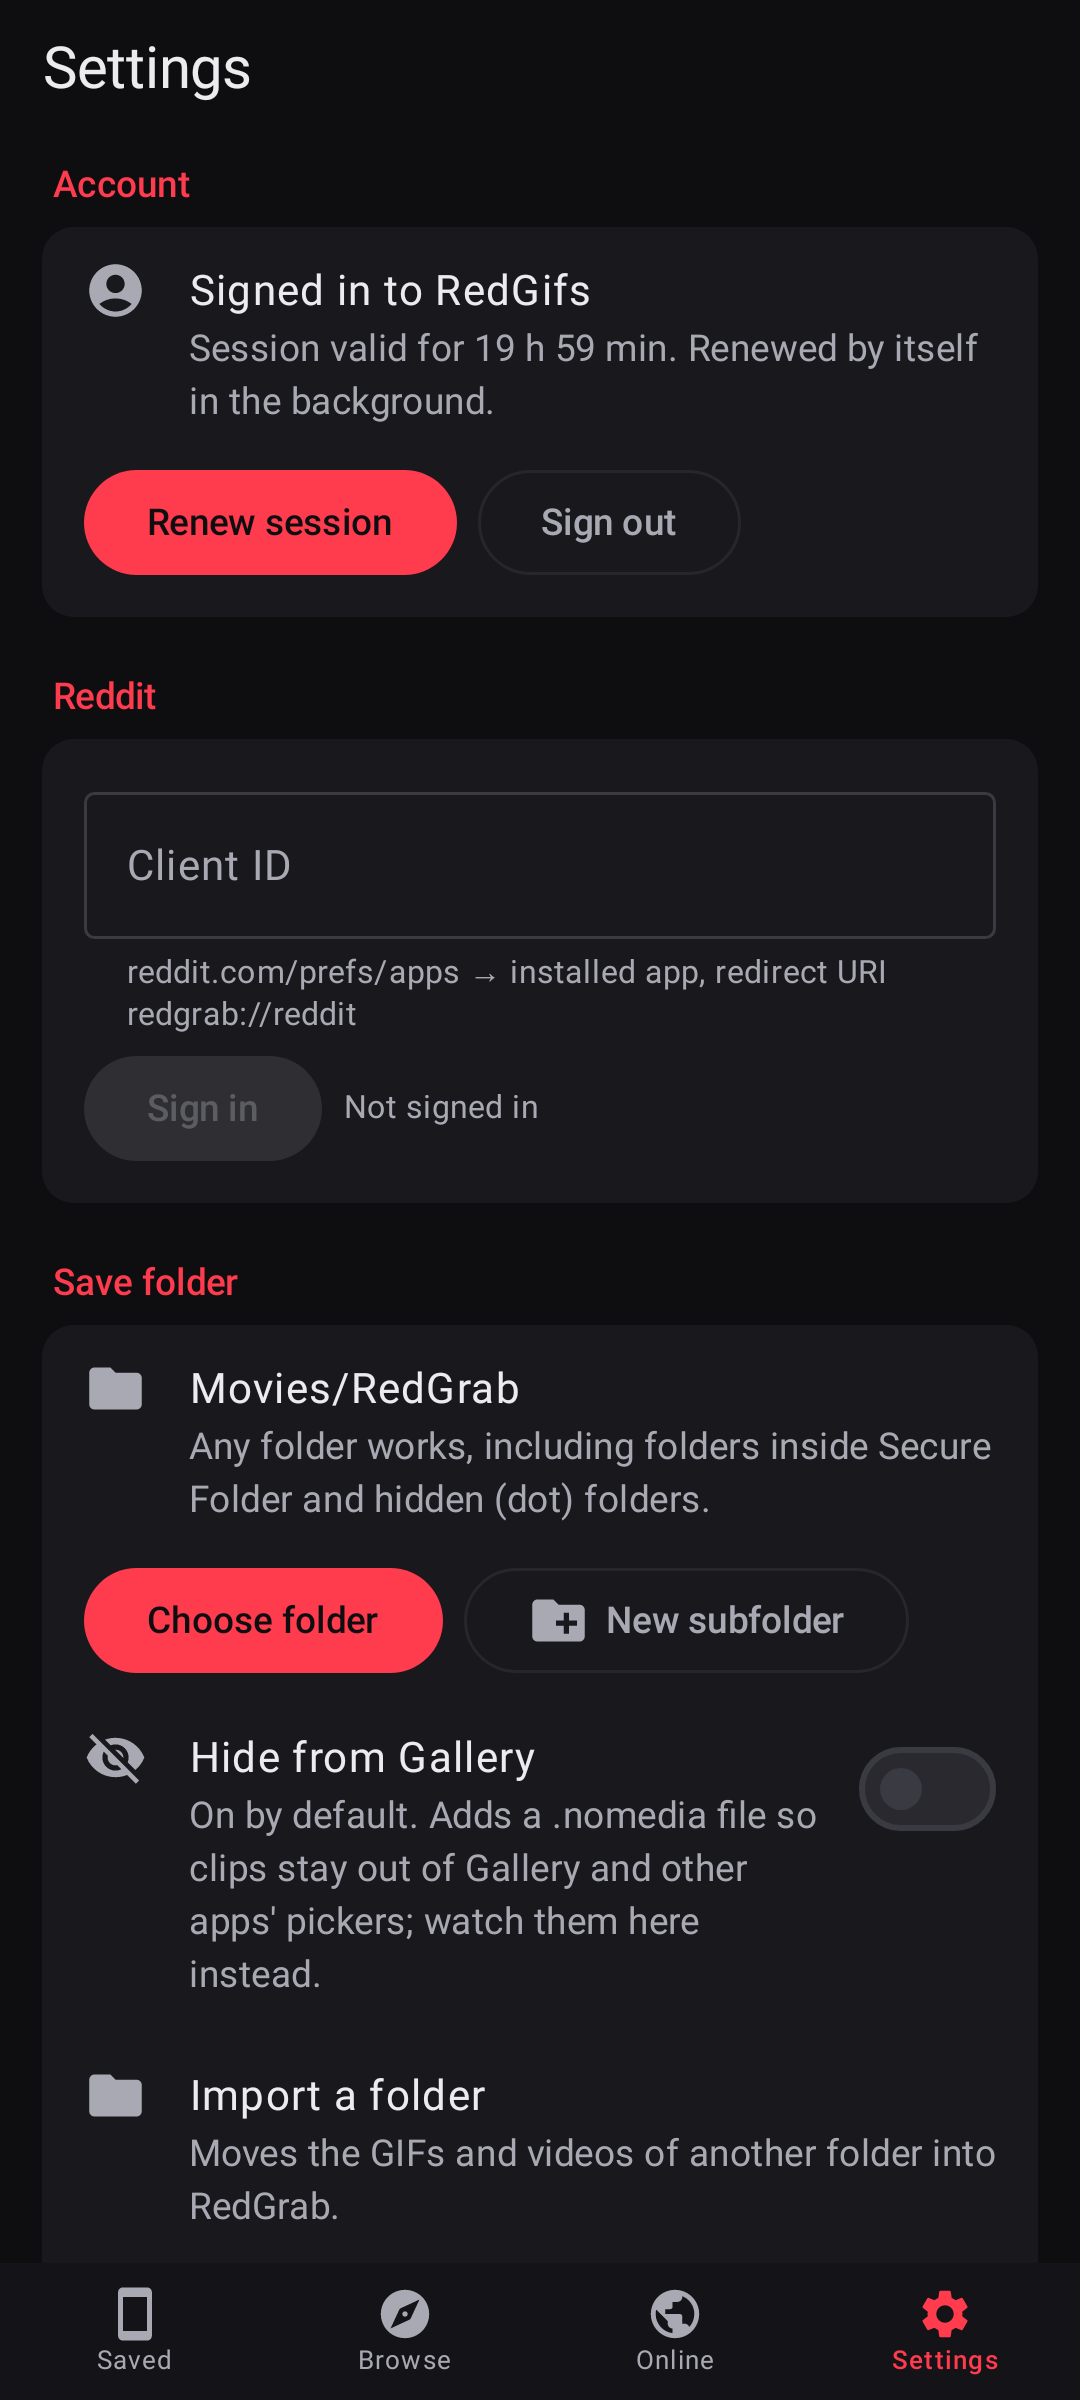
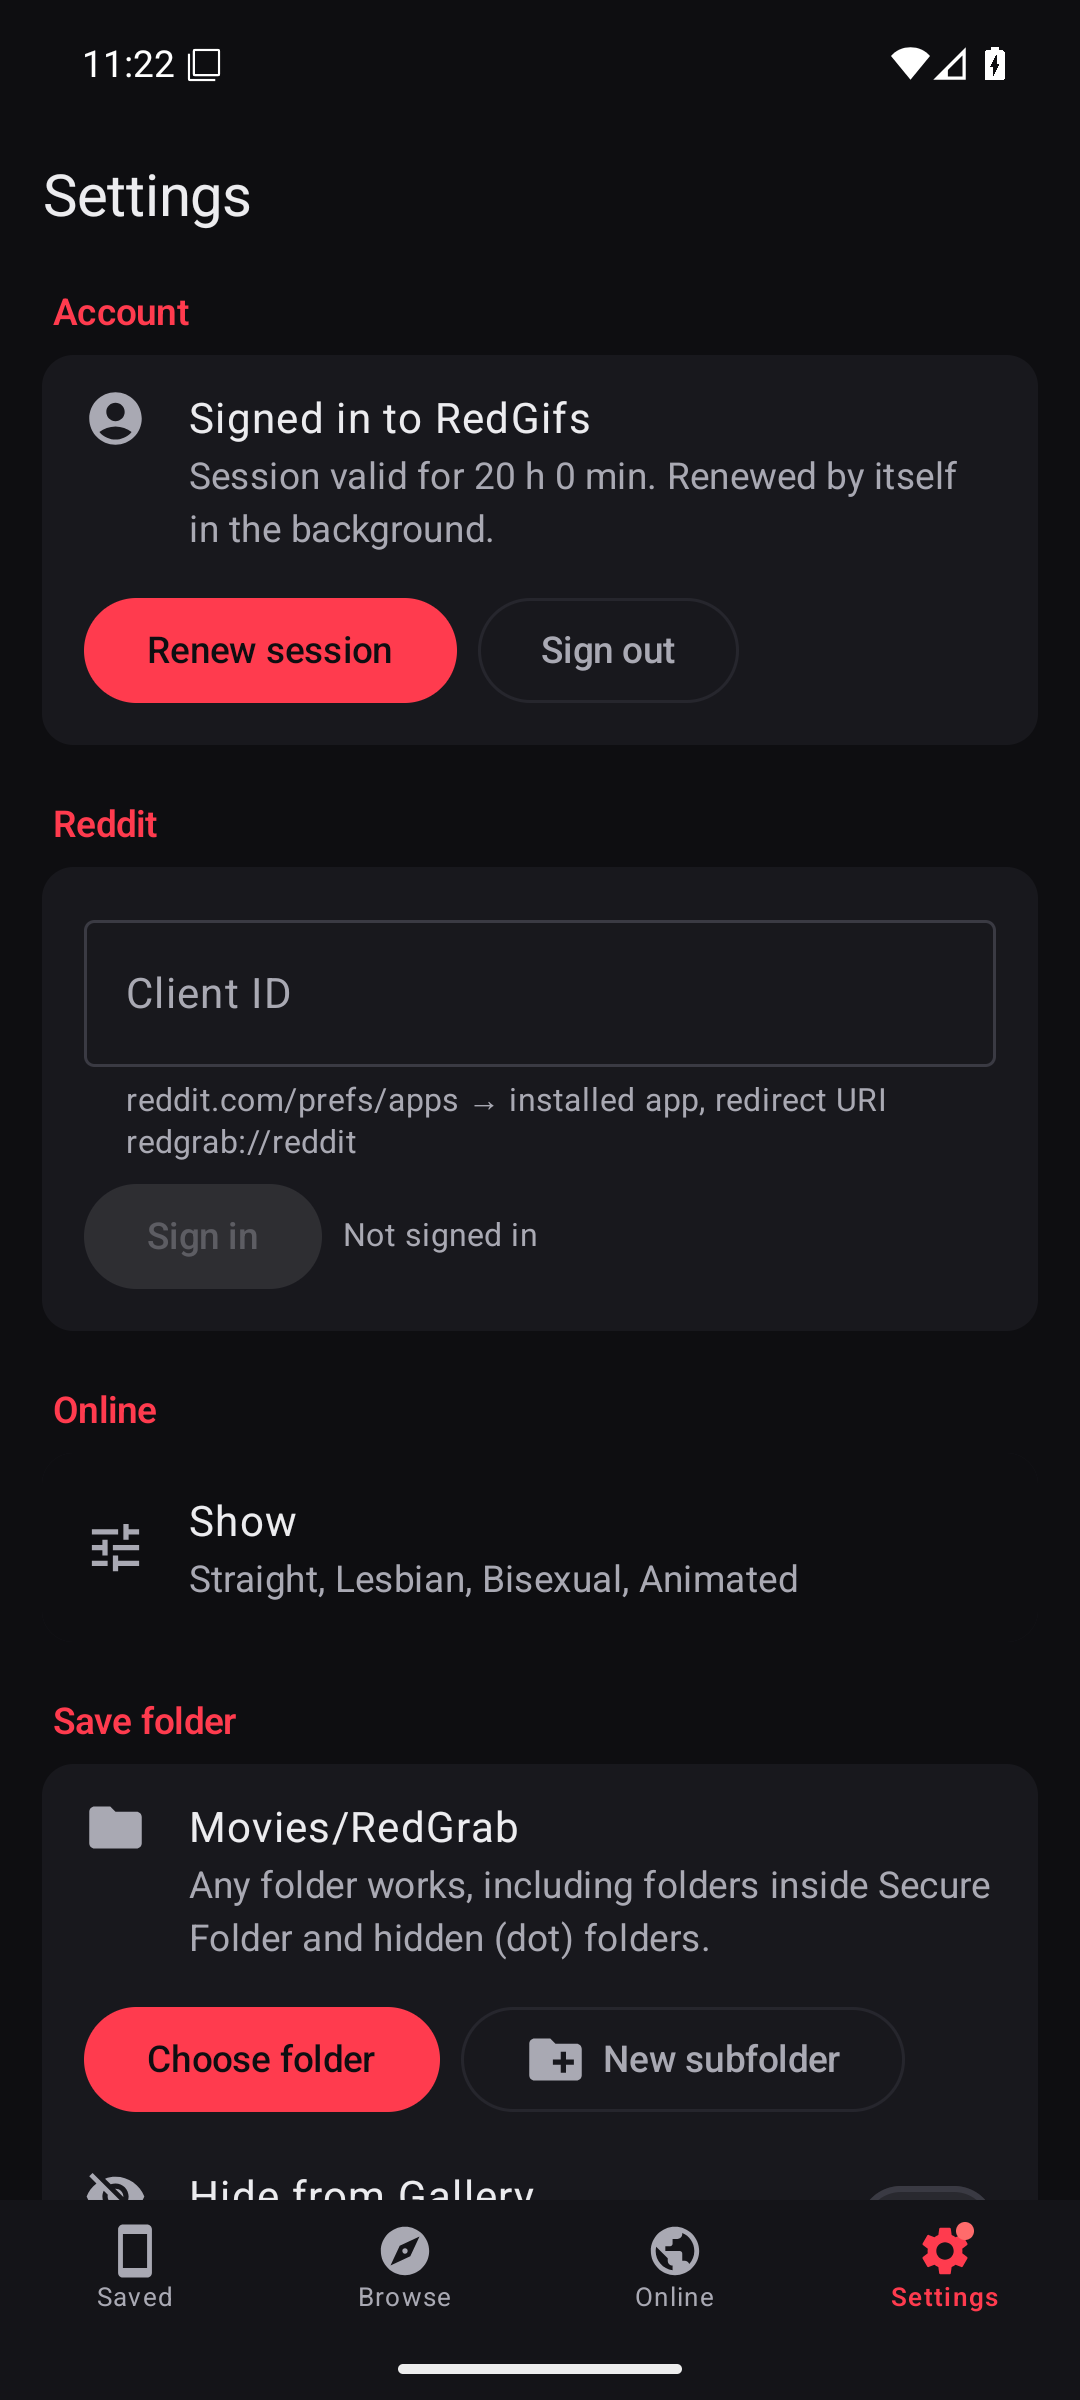
RedGrab 13.14: follows on every site, mixed feed across sites, refactors; README and screenshots brought up to date
See CHANGELOG.md. Screenshots are from the on-device tests on GitHub's
Android 16 emulator (made-up clips, nothing from any site).

Claude-Session: https://claude.ai/code/session_016QiNWp4pRMXs6S8nBDkTfq

diff --git a/app/src/androidTest/java/app/redgrab/ScreenshotsTest.kt b/app/src/androidTest/java/app/redgrab/ScreenshotsTest.kt
@@ -232,6 +232,9 @@ class ScreenshotsTest {
         Thread.sleep(3000)
         scenario.onActivity { vm.showOnline(feed(mine)); vm.suggest("sun") }
         await("Sunset")
+        // Creators are looked up on the site; the picture shows only the made-up tags and niches.
+        Thread.sleep(4000)
+        scenario.onActivity { vm.suggestions = vm.suggestions.filter { it.kind != Suggestion.Kind.Creator && it.kind != Suggestion.Kind.Subreddit } }
         shot("v13-search")
     }
 

diff --git a/README.md b/README.md
@@ -37,13 +37,13 @@ Taken on an emulator with made-up clips. The thumbnails are drawn by the screens
 
 | Source | Browse by | Needs |
 | --- | --- | --- |
-| All sites | one feed across every site set up, one search | whatever each site needs |
+| All sites | your feed across every site (what you follow on each), one search | whatever each site needs |
 | RedGifs | My feed (followed niches and tags), For you, search with suggestions, exact tags, niche browser, creator, related | RedGifs sign-in |
-| Reddit | front page, subreddit, user, your saved/upvoted | your own client ID |
-| FikFap | hashtag, user | nothing |
-| sex.com | GIF search | nothing |
-| EroMe | search, user | nothing |
-| 4chan | `/gif/` threads | nothing |
+| Reddit | front page, subreddit (with suggestions), user, your saved/upvoted | a client ID |
+| FikFap | hashtag, user; followed hashtags | nothing |
+| sex.com | most liked GIFs, GIF search; followed searches | nothing |
+| EroMe | Hot, New, search, user; followed searches | nothing |
+| 4chan | boards, threads, thread search; followed searches | nothing |
 
 Search suggests only tags, niches, creators and subreddits that exist. RedGifs' tag and niche lists are cached on the phone.
 
@@ -60,7 +60,7 @@ A content filter (straight, lesbian, gay, trans, bisexual, animated) applies to 
 - Share to WhatsApp
 - SFW mode (blurs previews, blocks playback)
 - App lock using the phone's fingerprint, face, PIN, pattern or password
-- Updates itself from this repository's releases
+- Updates itself from this repository's releases (Android asks once to allow it)
 - Changelog shown after each update
 
 ## Install
@@ -163,6 +163,7 @@ Pushing a new `versionName` in `app/build.gradle.kts` runs `.github/workflows/re
 - Release notes come from the version's section in [`CHANGELOG.md`](CHANGELOG.md). The build fails if the current version has no entry.
 - Before publishing, the last release is installed on an emulator and updated to the new build; the app has to start. The on-device tests run beside it.
 - After publishing, the release before is installed on an emulator and has to update itself through the app's own updater. "Run workflow" with `updater` ticked runs only that.
+- The on-device tests' screenshots are pushed to the branch `ci-screenshots`; the pictures above are copied from there.
 
 ## Project layout
 
@@ -172,7 +173,8 @@ Pushing a new `versionName` in `app/build.gradle.kts` runs `.github/workflows/re
 | `.../ui/` | Compose screens |
 | `.../RedGifsApi.kt`, `Sources.kt`, `MoreSources.kt` | Site clients |
 | `.../DownloadWorker.kt`, `SyncWorker.kt` | Background downloads and sync |
-| `.../Library.kt`, `Db.kt` | Library state and database |
+| `.../Library.kt`, `Lib*.kt`, `Clip.kt`, `Db.kt` | Library state (by topic) and database |
+| `.../MainViewModel.kt`, `Vm*.kt`, `Feed.kt` | Screen state, and its functions by topic |
 | `.../Updater.kt`, `Changelog.kt` | Updates and changelog |
 | `.../SearchIndex.kt` | Cached tag and niche lists, suggestion matching |
 | `.../SecretStore.kt`, `AppLock.kt` | Token storage and app lock |
@@ -182,7 +184,8 @@ Built with Kotlin, Jetpack Compose, Media3, Room, WorkManager, OkHttp and Coil.
 
 ## Known limits
 
-- Clients for Reddit, FikFap, sex.com, EroMe and 4chan are written from open-source extractor code and have not been tested against the live sites from the build environment.
+- Clients for Reddit, FikFap, sex.com, EroMe and 4chan are written from open-source extractor code and public API documentation and have not been run against the live sites from the build environment. EroMe's Hot/New lists and 4chan's board list are not in any extractor.
+- Following on sites other than RedGifs and Reddit is kept in the app, not on the site.
 - Reddit-hosted videos are saved without sound.
 - 4chan clips are mostly WebM, which some apps won't play or accept.
 - FikFap streams can't be resumed part-way.

diff --git a/CHANGELOG.md b/CHANGELOG.md
@@ -6,6 +6,20 @@ time it opens after an update, and the whole list under Settings → About → W
 Each version has the sections it needs out of Added, Changed and Fixed, one line per change,
 and a link to the code that made it.
 
+## 13.14 (build 27) · 2026-11-27
+
+### Added
+- Follow things on sites that have no following of their own: FikFap hashtags, sex.com and EroMe searches, 4chan boards and searches. They show in a "Following" row.
+- All sites, with nothing typed, is your feed across the sites: RedGifs niches and tags, Reddit's front page, and what you follow elsewhere.
+- sex.com lists its most liked GIFs without a search. EroMe opens on its Hot and New lists. 4chan has a row of boards.
+
+### Changed
+- Inside the app: settings storage and the two largest code files were reorganised. Nothing should behave differently.
+- The first in-app update asks once, through Android, to allow RedGrab to install apps. After that, updates install on a tap.
+
+### Fixed
+- Release checks: the app's own updater is now run end to end on an emulator (older version finds, downloads and installs the new one).
+
 ## 13.13 (build 26) · 2026-11-27
 
 ### Changed
@@ -13,6 +27,8 @@ and a link to the code that made it.
 - Needs Android 16 or later. Code for older versions is removed.
 - Answers from sites are limited in size (16 MB of text, 4 GB per stream), so a broken site can't fill memory or storage.
 - Release builds: every workflow action is pinned to an exact commit; the signing key's password can be a secret.
+
+[Details](https://github.com/tritnaha/redgrab/commit/6d9a1c3)
 
 ## 13.12 (build 25) · 2026-11-27
 
